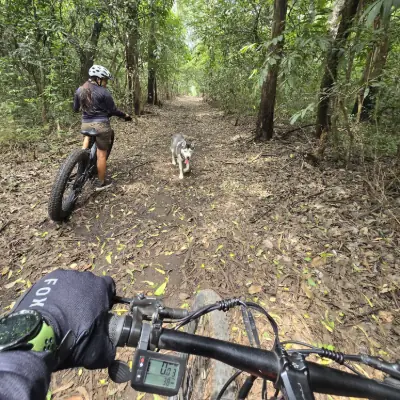
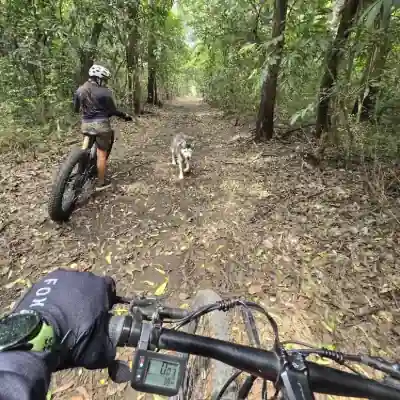
Project [v7]

diff --git a/project/index.html b/project/index.html
@@ -15,7 +15,7 @@
     <script src="scripts/date.js" type="module"></script>
     <script src="scripts/navigation.js" type="module"></script>
     <script src="scripts/home.js" defer></script>
-    <link rel="icon" href="/images/favicon.ico" type="image/x-icon">
+    <link rel="icon" href="/wdd231/project/images/favicon.ico" type="image/x-icon">
 
     <meta property="og:title" content="Tail Trails GT">
     <meta property="og:description" content="Tail Trails is your go-to destination for outdoor adventures with dogs! Hike scenic paths, bike rugged terrain, and splash into lakes together. Unleash the fun!">
